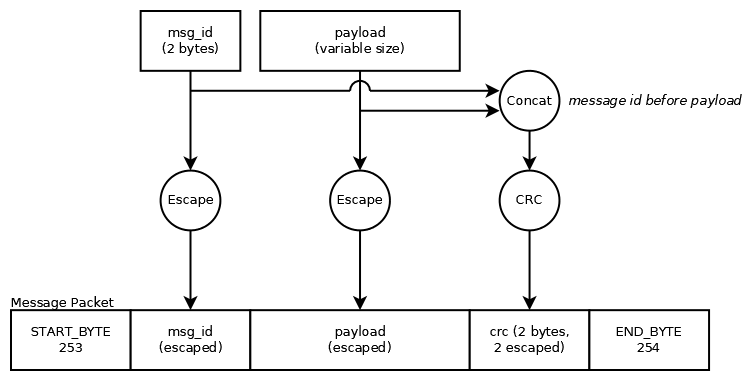
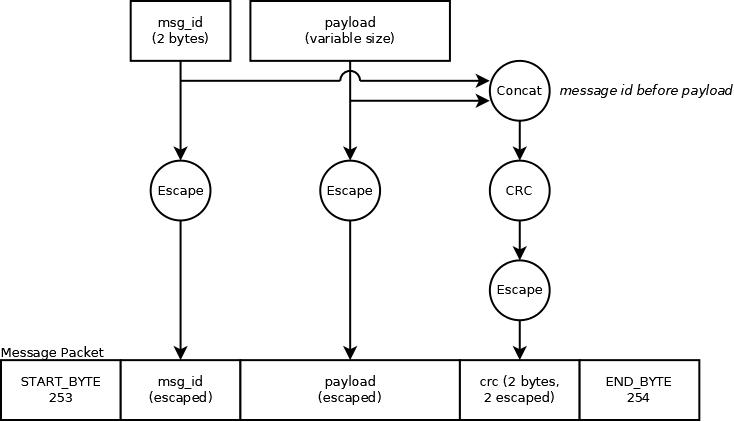
Formatting fixes and clarifications to comm_protocol docs

Changed region(s): [[0.0, 0.0, 1.0, 1.0], [0.4196, 0.3455, 0.5395, 0.6047]]

diff --git a/docs/docs/user_guide/comm_protocol.md b/docs/docs/user_guide/comm_protocol.md
@@ -25,6 +25,7 @@ Since the payload could itself contain a start or end byte, there is also an esc
 This is similar to escaping a quote in a string using a backslash.
 
 For the control board:
+
 - `START_BYTE` = 253 (unsigned 8-bit) = -3 (signed 8-bit)
 - `END_BYTE` = 254 (unsigned 8-bit) = -2 (signed 8-bit)
 - `ESCAPE_BYTE` = 255 (unsigned 8-bit) = -1 (signed 8-bit)
@@ -35,7 +36,7 @@ In addition to the control bytes and the payload, each message contains two othe
 
     *Note that in practice, eventually (after 65535 messages sent one way) ID numbers must eventually repeat. This is acceptable as long as no two messages that are sent "close together" have the same id. Effectively, no two "active" messages in a single direction may have the same ID (what "active" means can vary, but in practice by the time 65,000 messages have been sent, old messages can be assumed inactive).*
 
-- Second, each message has a CRC appended to it. This is a 16-bit CRC using the CCITT-FALSE algorithm. It is appended&ast; to the message big endian. The CRC is calculated on the concatenation of the message id bytes and the raw (unescaped) payload bytes.
+- Second, each message has a CRC appended&ast; to it. This is a 16-bit CRC using the CCITT-FALSE algorithm. It is appended&ast; to the message big endian. The CRC is calculated on the concatenation of the message id bytes and the raw (unescaped) payload bytes.
 - Just like the payload data, when prepending or appending message id or crc, it is necessary to escape bytes that are equal to control bytes (start, end, escape).
 
     &ast;*Note that append and prepend still mean contained between control (start and end) bytes.*

diff --git a/docs/docs/index.md b/docs/docs/index.md
@@ -1,4 +1,4 @@
-# AUV Control Board Documentatoin
+# AUV Control Board Documentation
 
 AUV Control Board is a low-cost open-source motion controller for (Autonomous) Underwater Vehicles. It is designed for vehicles with fixed position thrusters and supports motion in 6 degrees of freedom.
 
